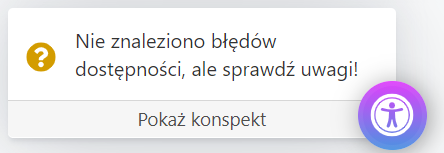
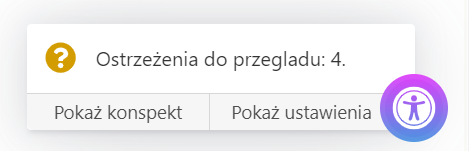
ilustracje opisu

Changed region(s): [[0.0293, 0.4768, 0.9955, 1.0], [0.0586, 0.2119, 0.8198, 0.5298], [0.1757, 0.106, 0.7613, 0.1589]]

diff --git a/docs/index.html b/docs/index.html
@@ -201,14 +201,14 @@ src="https://www.facebook.com/tr?id=487063571839875&ev=PageView&noscript=1"
           <div class="row">
             <div class="col-sm-4 text-center">
               <img loading="lazy" class="responsive-img" width="500" src="assets/images/tad-error.png"
-                alt="Zrzut panelu, który pokazuje: wykryto 4 błędy dostępnościi  3 ostrzeżenia!">
+                alt="Zrzut panelu, który pokazuje: Wykryto 1 błąd dostępności!">
               <h4>Błędy</h4>
               <p class="p20">Wykrywa i sygnalizuje typowe błędy użyteczności i&nbsp;dostępności na&nbsp;poziomie&nbsp;A&nbsp;i&nbsp;AA  WCAG 2.1.</p>
             </div>
             <div class="col-sm-4 text-center">
               <img loading="lazy" class="responsive-img" width="500" src="assets/images/tad-warning.png"
                 alt="Zrzut panelu, który pokazuje: Proszę przejrzeć uwagi.">
-              <h4>Uwagi</h4>
+              <h4>Ostrzeżenia</h4>
               <p class="p20">Ostrzega przed potencjalnymi problemami i&nbsp;monituje o&nbsp;ręczne przejrzenie elementu.</p>
             </div>
             <div class="col-sm-4 text-center">
@@ -227,7 +227,7 @@ src="https://www.facebook.com/tr?id=487063571839875&ev=PageView&noscript=1"
               <p>TAD sprawdza następujące problemy związane z treścią.</p>
               <div class="row">
                 <div class="col-md-6">
-                  <h5>Błędy</h5>
+                  <h4>Błędy</h4>
                   <ul>
                     <li>Obrazy
                       <ul>
@@ -264,7 +264,7 @@ src="https://www.facebook.com/tr?id=487063571839875&ev=PageView&noscript=1"
                   </ul>
                 </div>
                 <div class="col-md-6">
-                  <h5>Ostrzeżenia</h5>
+                  <h4>Ostrzeżenia</h4>
 				  <p>Ostrzeżenia mogą monitować o <strong>ręczne przejrzenie elementu</strong>, zawierać <strong>sugestie dotyczące poprawy</strong> użyteczności/dostępności lub ostrzegać o problemach z&nbsp;dostępnością, których <strong>nie można wykryć programowo</strong>.</p>
                   <ul>
                     <li>Nagłówki
@@ -369,7 +369,7 @@ src="https://www.facebook.com/tr?id=487063571839875&ev=PageView&noscript=1"
           <div class="row">
             <div class="col-md-7">
               <h3>Czytelność</h3>
-              <p>TAD może <strong>oszacować</strong> czytelność na podstawie wszystkich akapitów i list w głównym obszarze treści. Dobry wynik czytelności jest wskazówką, że Twój tekst jest zrozumiały i łatwy do przyswojenia. Jest on oparty na średniej długości zdań i słów na Twojej stronie, przy użyciu formuły znanej jako <a href="https://pl.wikipedia.org/wiki/Indeks_czytelno%C5%9Bci_Flescha">Indeks czytelności Flescha.</a></p>
+              <p>TAD może <strong>oszacować</strong> czytelność na podstawie wszystkich akapitów i&nbsp;list w&nbsp;głównym obszarze treści. Dobry wynik czytelności jest wskazówką, że Twój tekst jest zrozumiały i&nbsp;łatwy do przyswojenia. Jest on oparty na średniej długości zdań i słów na Twojej stronie, przy użyciu formuły znanej jako <a href="https://pl.wikipedia.org/wiki/Indeks_czytelno%C5%9Bci_Flescha">Indeks czytelności Flescha. Niestety, nie istnieje formuła obliczająca ten indeks dla języka polskiego. TAK szacuje trudność tekstu w&nbsp;oparciu algorytm dla języka angielskiego. </a></p>
 
               <p>&bdquo;Dobry&rdquo; wynik czytelności mieści się w przedziale od 60 do 100. Czasami osiągnięcie dobrego wyniku czytelności może być trudne. Większość Twoich stron może mieć napis &bdquo;trudne&rdquo;. Pamiętaj, że ta funkcja jest używana tylko do <strong>oszacowania</strong> czytelności twoich treści. Powinna być używana tylko jako <strong>punkt odniesienia,</strong> a nie jako wskaźnik zgodności.</p>
               <p>Możesz włączyć funkcję czytelności w panelu ustawień.</p>
@@ -379,7 +379,7 @@ src="https://www.facebook.com/tr?id=487063571839875&ev=PageView&noscript=1"
                 <li>Utrzymuj zdania średnio na poziomie 15 słów.</li>
                 <li>Unikaj zdań dłuższych niż 25 słów.</li>
                 <li>Dziel długie zdania na części lub używaj wypunktowań.</li>
-                <li>Unikaj słów złożonych lub z wieloma sylabami.</li>
+                <li>Unikaj słów trudnych lub z wieloma sylabami.</li>
               </ul>
 
               <h4>Szczegóły techniczne dotyczące oceny czytelności</h4>
@@ -388,7 +388,7 @@ src="https://www.facebook.com/tr?id=487063571839875&ev=PageView&noscript=1"
             </div>
             <div class="col-md-5">
               <img loading="lazy" class="responsive-img" width="500" src="assets/images/readability.png"
-                alt="Zrzut ekranu panelu Czytelność w Konspekcie strony. Sekcja czytelności pokazuje wynik w skali 100, trudność, średnią liczbę słów w zdaniu, procent słów złożonych oraz liczbę słów ogółem.">
+                alt="Zrzut ekranu panelu Czytelność w Konspekcie strony. Sekcja Czytelność pokazuje wynik w skali od 0 do 100, trudność, średnią liczbę słów w zdaniu, procent słów trudnych oraz liczbę słów ogółem.">
             </div>
           </div>
 
@@ -457,12 +457,12 @@ src="https://www.facebook.com/tr?id=487063571839875&ev=PageView&noscript=1"
 			  
 
           <h3 id="how" class="pt20">Obsługa</h3>
-          <p>Kliknij przycisk przełacznika wyświetlany w prawym dolnym rogu. Jeśli używasz technologii wspomagającej, przycisk ma nazwę &bdquo;Testuj dostępność&rdquo;.</p>
+          <p>Kliknij przycisk przełącznika wyświetlany w prawym dolnym rogu. Jeśli używasz technologii wspomagającej, przycisk ma nazwę &bdquo;Testuj dostępność&rdquo;.</p>
 
           <div class="row">
             <div class="col-md-6" style="padding: 20px;">
               <h4 class="pt20"><i class="fa fa-lightbulb-o" aria-hidden="true"></i> Wskazowka #1</h4>
-              <p>Użyj przycisku &bdquo;Przejdź do problemu&rdquo;, aby szybko przejść przez wszystkie błędy, ostrzeżenia lub przyciski &bdquo;dobrze&rdquo;. Etykieta narzędzia zostanie automatycznie otwarta. Możesz również nacisnąć <kbd>alt</kbd> <kbd aria-label="period">.</kbd> na klawiaturze.</p>
+              <p>Użyj przycisku &bdquo;Przejdź do problemu&rdquo;, aby szybko przejść przez wszystkie błędy, ostrzeżenia lub przyciski &bdquo;dobrze&rdquo;. Etykieta narzędzia zostanie automatycznie otwarta. Możesz również nacisnąć klawisze <kbd>alt</kbd> i <kbd aria-label="kropka">.</kbd> na klawiaturze.</p>
             </div>
             <div class="col-md-6" style="padding: 20px;">
               <h4 class="pt20"><i class="fa fa-lightbulb-o" aria-hidden="true"></i> Wskazowka #2</h4>
@@ -470,7 +470,7 @@ src="https://www.facebook.com/tr?id=487063571839875&ev=PageView&noscript=1"
             </div>
           </div>
           <div class="text-center">
-            <img loading="lazy" class="responsive-img" width="800" src="assets/images/skip-to-issue.png"
+            <img loading="lazy" class="responsive-img" src="assets/images/skip-to-issue.png"
               alt="Zrzut ekranu z przyciskiem Przejdź do problemu oraz alertem informującym, że element może być ukryty w komponencie akordeonu lub karty."></div>
 
           <h3 class="pt20">Dla programistów i webmasterów</h3>

diff --git a/src/tad-polish.js b/src/tad-polish.js
@@ -60,10 +60,10 @@ const sa11yReadability = "Czytelność",
 
 //Panel status
 const sa11yPanelStatus = {
-    status1: `Wykryto błąd dostępności: 1 i ostrzeżenia: 1.`,
-    status2: (warningCount) => `Wykryto błąd dostępności: 1 i ostrzeżenia: ${warningCount}.`,
-    status3: (errorCount) => `Wykryto błędy dostępności: ${errorCount} i ostrzeżenie: 1.`,
-    status4: (errorCount, warningCount) => `Wykryto błędy dostępności: ${errorCount} i ostrzeżenia: ${warningCount}.`,
+    status1: `Wykryto błąd dostępności: 1 i&nbsp;ostrzeżenie: 1.`,
+    status2: (warningCount) => `Wykryto błąd dostępności: 1 i&nbsp;ostrzeżenia: ${warningCount}.`,
+    status3: (errorCount) => `Wykryto błędy dostępności: ${errorCount} i&nbsp;ostrzeżenie: 1.`,
+    status4: (errorCount, warningCount) => `Wykryto błędy dostępności: ${errorCount} i&nbsp;ostrzeżenia: ${warningCount}.`,
     status5: `Wykryto błąd dostępności: 1.`,
     status6: (errorCount) => `Wykryto błędy dostępności: ${errorCount}.`,
     status7: `Przejrzyj ostrzeżenie.`,
